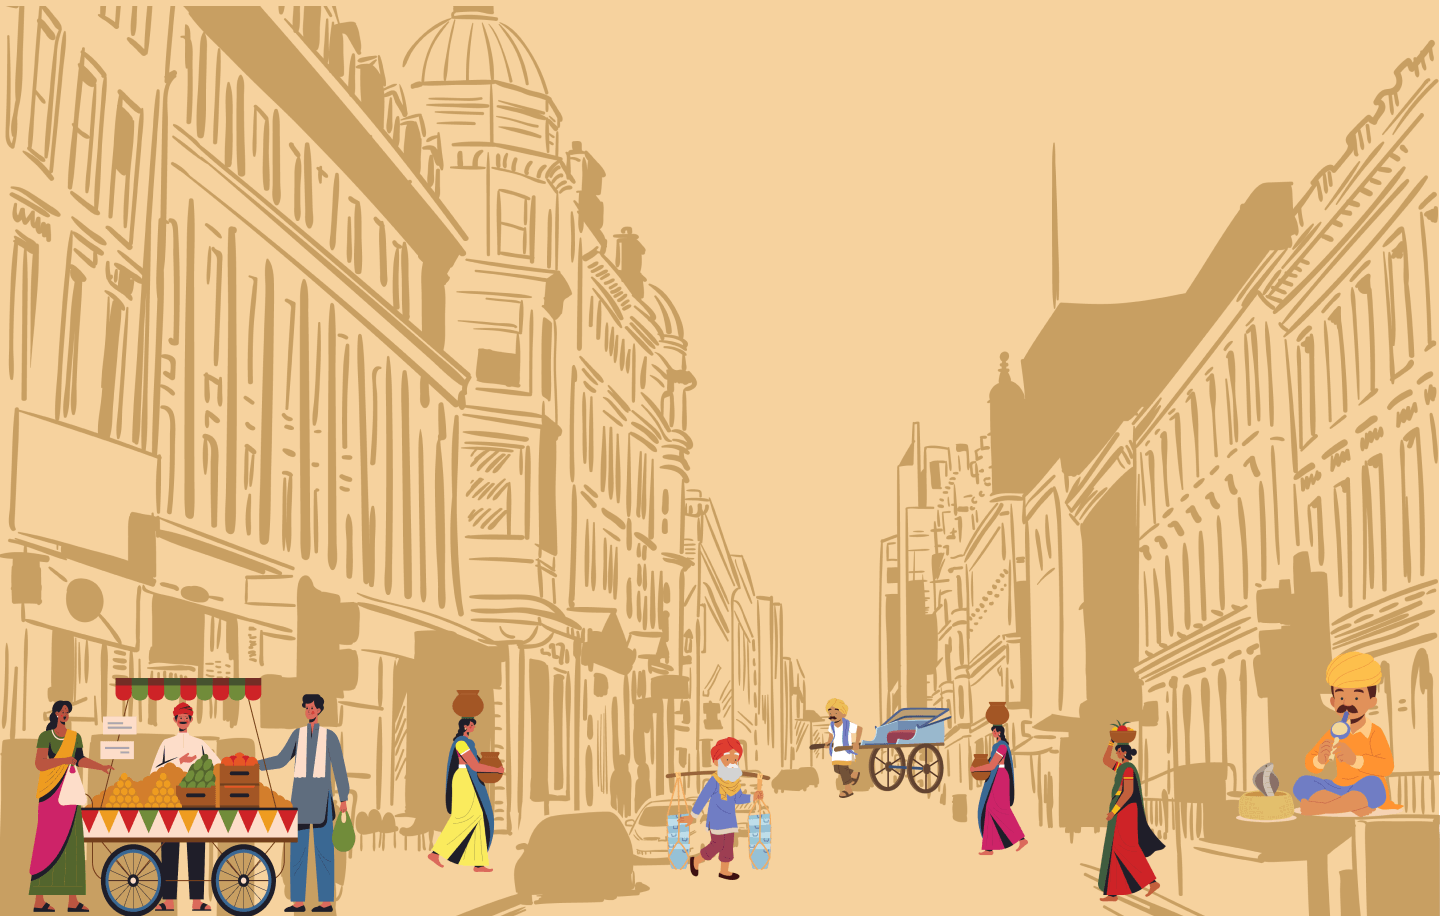
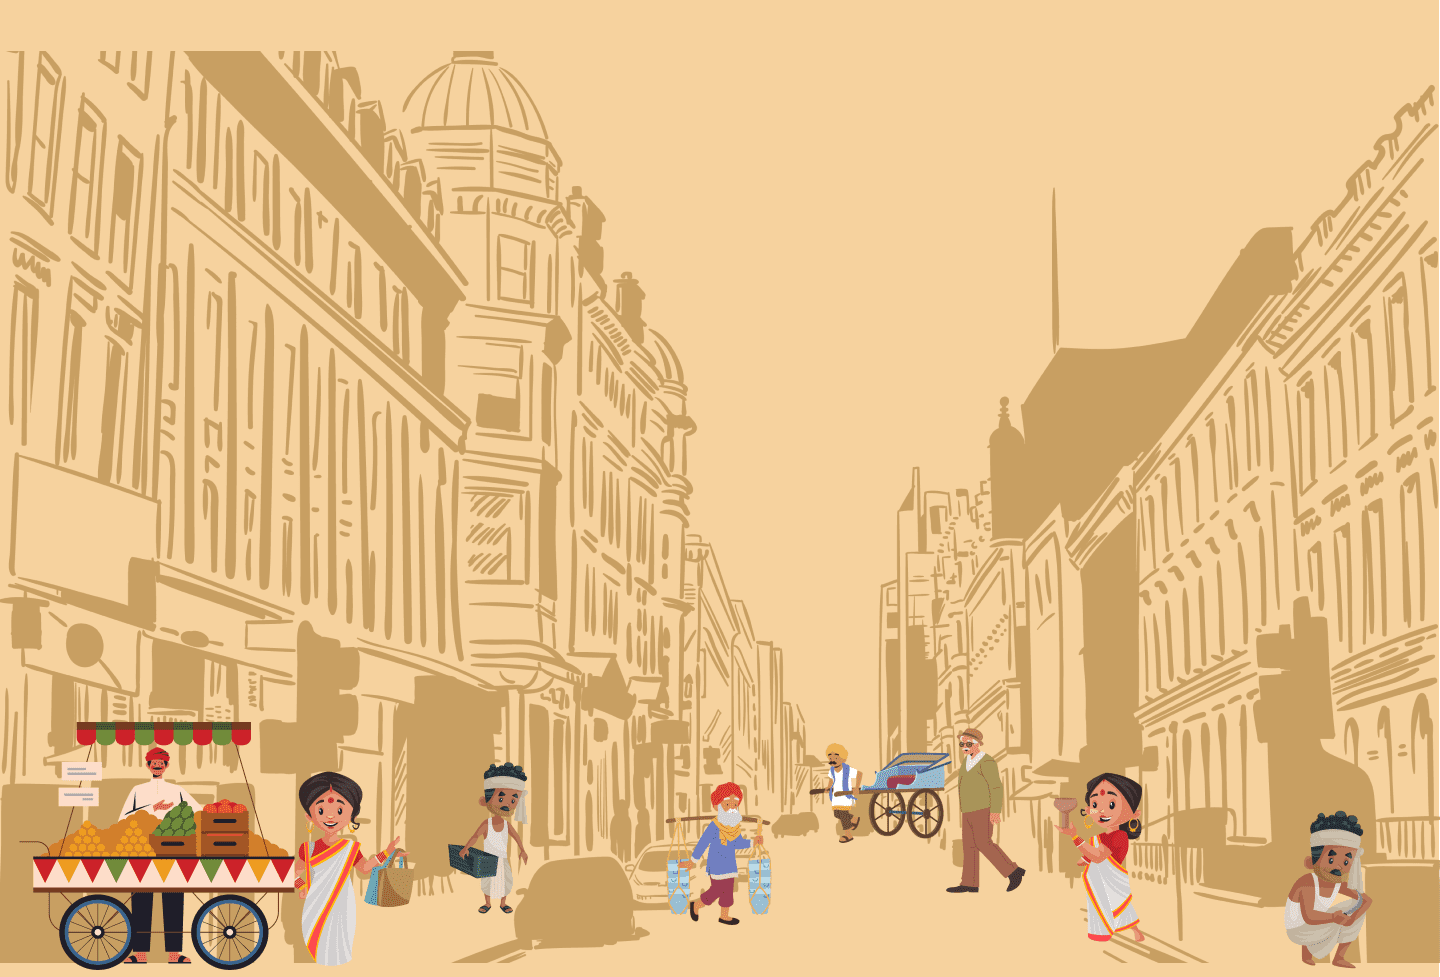
update: landing page image

Changed region(s): [[0.0, 0.0, 1.0, 1.0], [0.25, 0.7031, 0.2812, 0.7336]]

diff --git a/src/Components/Landing/Landing.module.scss b/src/Components/Landing/Landing.module.scss
@@ -1,5 +1,6 @@
 .container {
   height: 100%;
+  overflow: hidden;
   .main {
     height: calc(100% - 3rem);
     position: relative;
@@ -18,15 +19,28 @@
       right: -350px;
       bottom: -50px;
       animation: animate 15s linear infinite;
-      animation-delay: 2s;
     }
     @keyframes animate {
       0% {
         transform: translateX(0);
       }
       100% {
-        transform: translateX(-200vw);
+        transform: translateX(-250vw);
       }
+    }
+  }
+  .logo {
+    position: absolute;
+    right: 10%;
+    top: 20%;
+    animation: scaleup 2s linear forwards;
+  }
+  @keyframes scaleup {
+    0% {
+      transform: scale(0);
+    }
+    100% {
+      transform: scale(1);
     }
   }
   .down {
@@ -48,7 +62,7 @@
     }
   }
 }
-@media (max-width: 1240px) {
+@media (max-width: 1250px) {
   .container {
     .main {
       .bgImg {
@@ -57,13 +71,12 @@
       }
       .lottie1 {
         top: 5rem;
-        animation-duration: 14s;
       }
     }
   }
 }
 
-@media (max-width: 820px) {
+@media (max-width: 1020px) {
   .container {
     .main {
       .bgImg {
@@ -84,8 +97,12 @@
         top: 3rem;
       }
       .lottie2 {
-        right: -350px;
+        animation-duration: 8s;
       }
+    }
+    .logo {
+      top: 35%;
+      right: -4%;
     }
   }
 }

diff --git a/src/Components/Landing/Landing.jsx b/src/Components/Landing/Landing.jsx
@@ -39,20 +39,21 @@ const Landing = () => {
       <div className={style.main}>
         <img
           className={style.bgImg}
-          src={`images/${isMobile ? "mobile" : "landing-img"}.png`}
+          src={`images/${isMobile ? "mobileView" : "landing-img"}.png`}
           alt="kolkata-img"
         />
         <div className={style.lottie1}>
           <Lottie
             options={defaultOptions1}
-            height={isMobile ? 400 : 500}
-            width={isMobile ? 400 : 500}
+            height={isMobile ? 350 : 500}
+            width={isMobile ? 350 : 500}
           />
         </div>
         <div className={style.lottie2}>
           <Lottie options={defaultOptions2} width={isMobile ? 360 : 400} />
         </div>
       </div>
+      <img className={style.logo} src="/images/oikyotan.svg" alt="logo" width={300} />
       <div className={style.down}>
         <button>
           About Us

diff --git a/src/Components/Navbar/Navbar.jsx b/src/Components/Navbar/Navbar.jsx
@@ -14,7 +14,7 @@ const Navbar = () => {
           <Link to="/events">Events</Link>
         </li>
         <li>
-          <img src="/images/oikyotan.png" alt="img" width={isMobile ? 100 : 160} />
+          <img src="/images/oikyotan.svg" alt="img" width={isMobile ? 100 : 140} />
         </li>
         <li>
           <Link to="/gallery">Gallery</Link>

diff --git a/src/Components/Navbar/Navbar.module.scss b/src/Components/Navbar/Navbar.module.scss
@@ -30,6 +30,7 @@
         margin: 0 1.5vw;
         a {
           font-size: 1rem;
+          font-weight: 800;
         }
       }
     }
